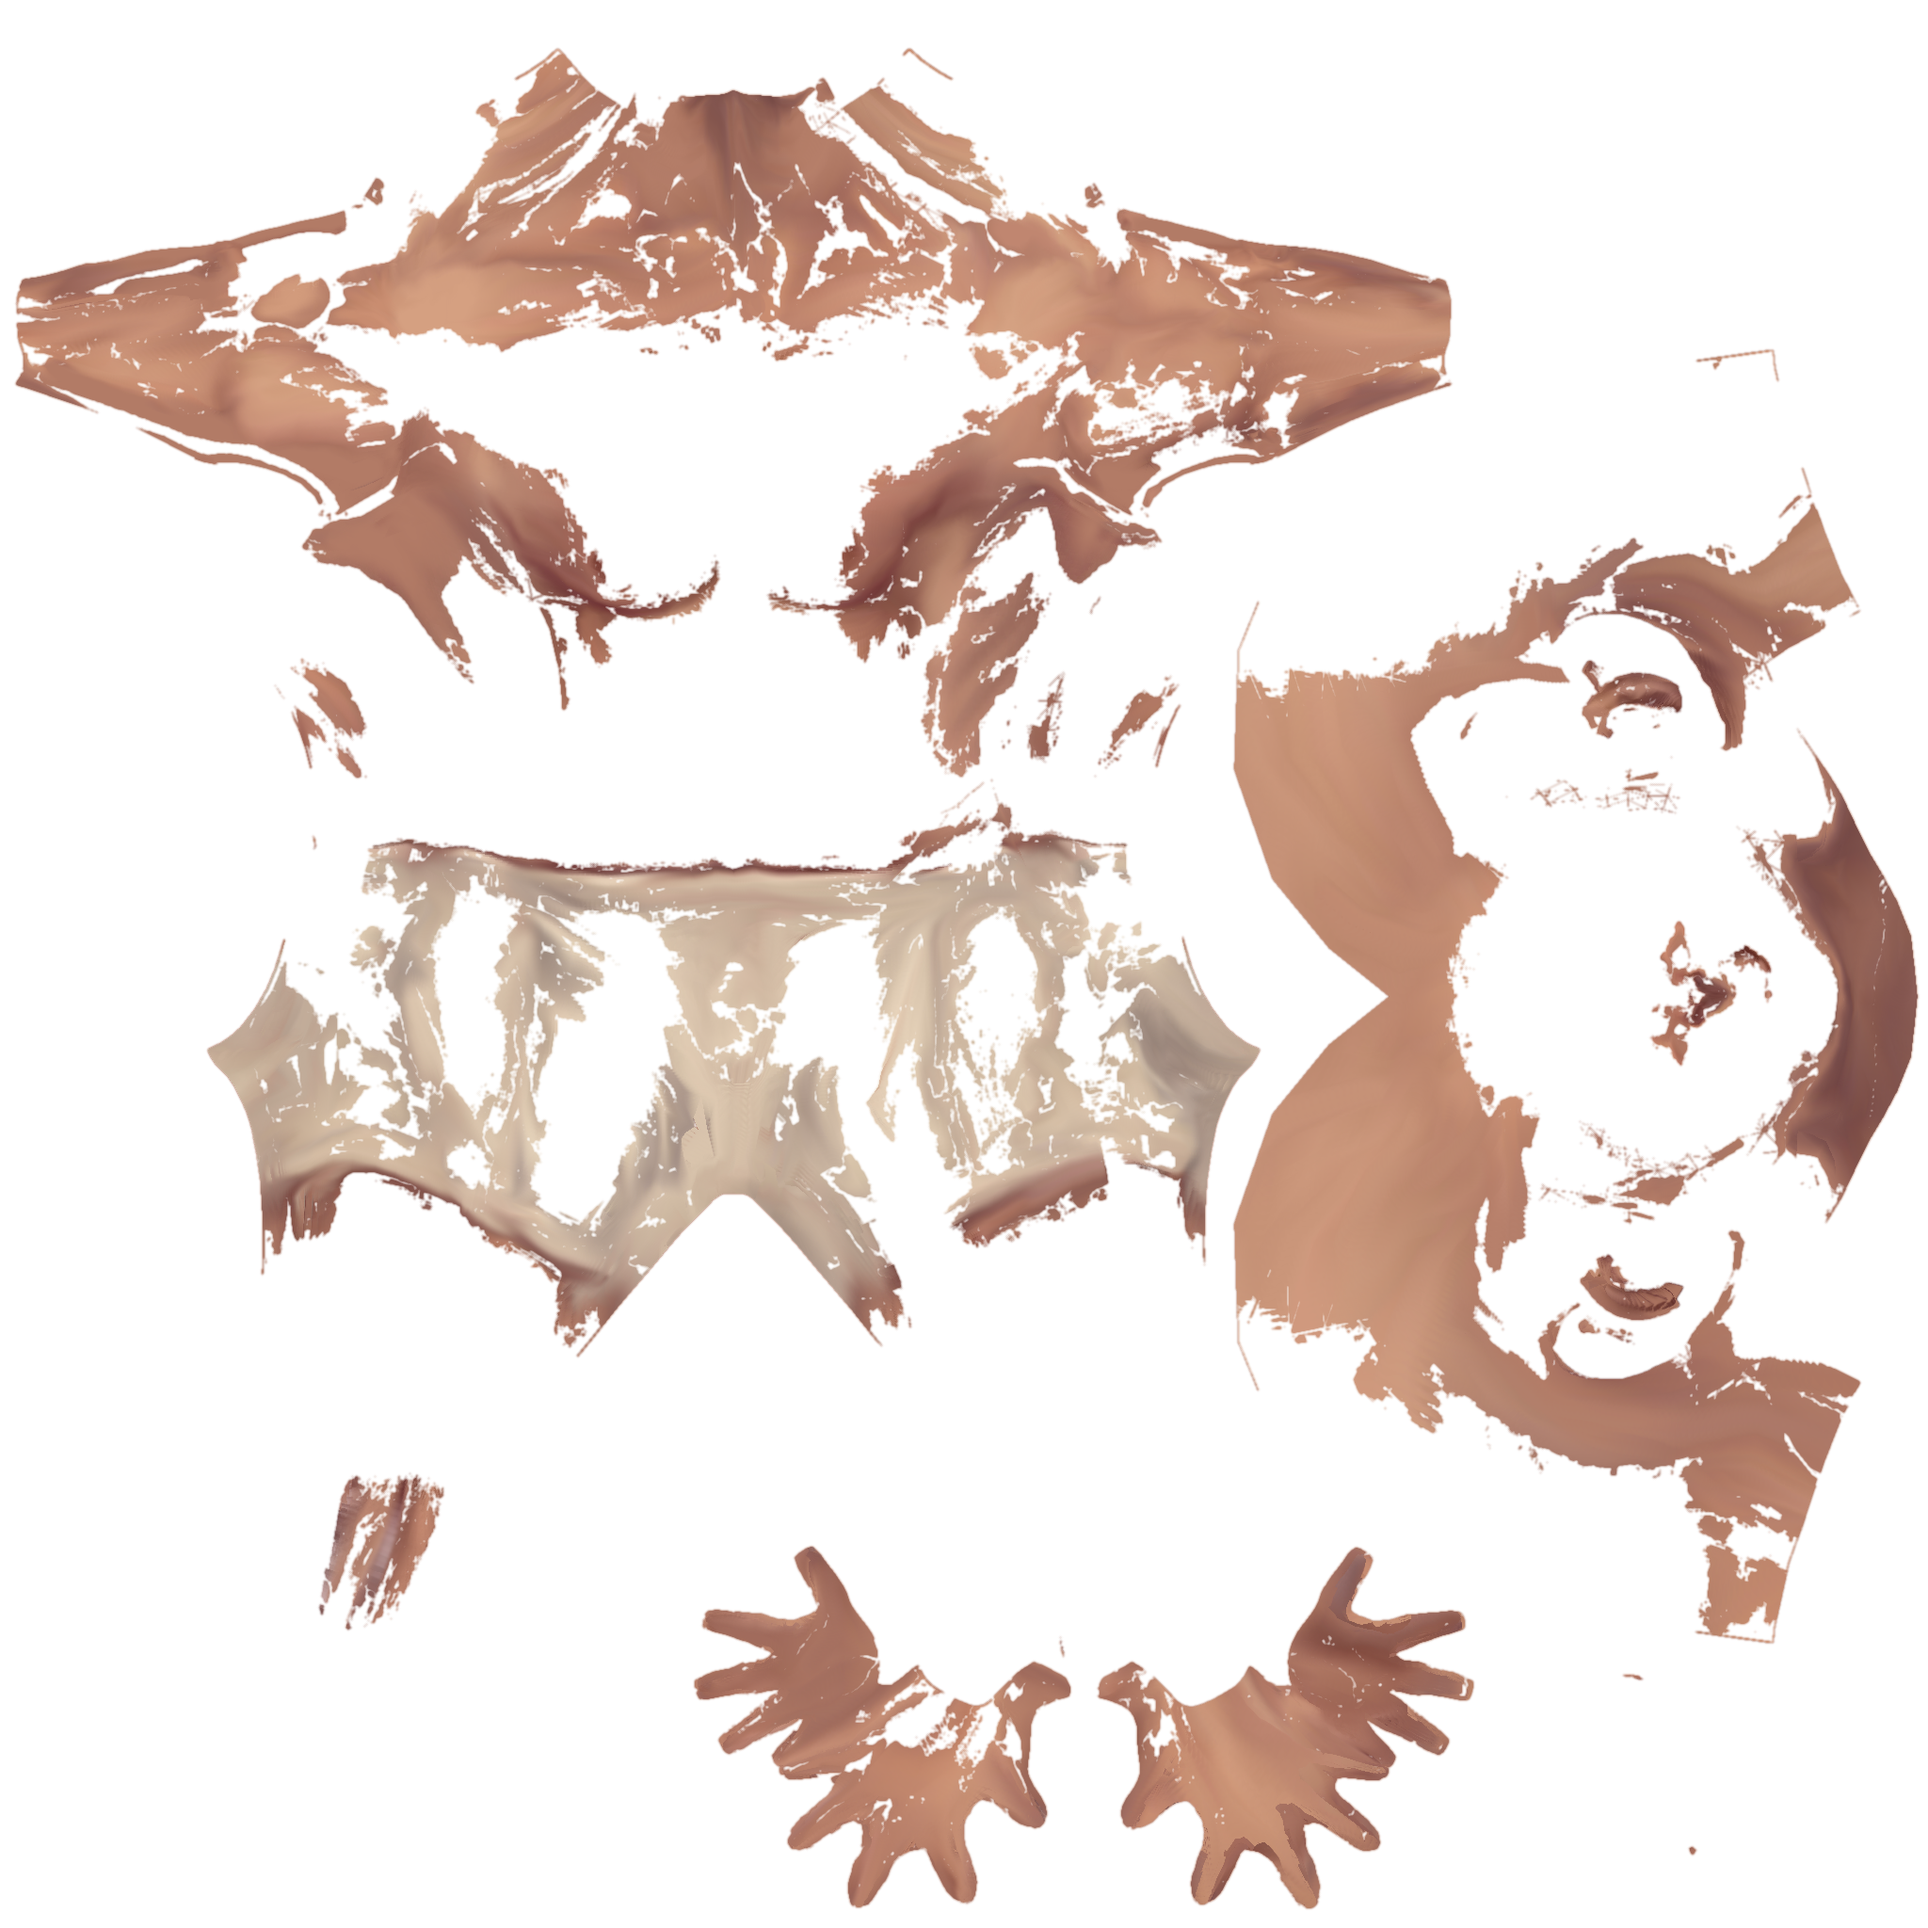
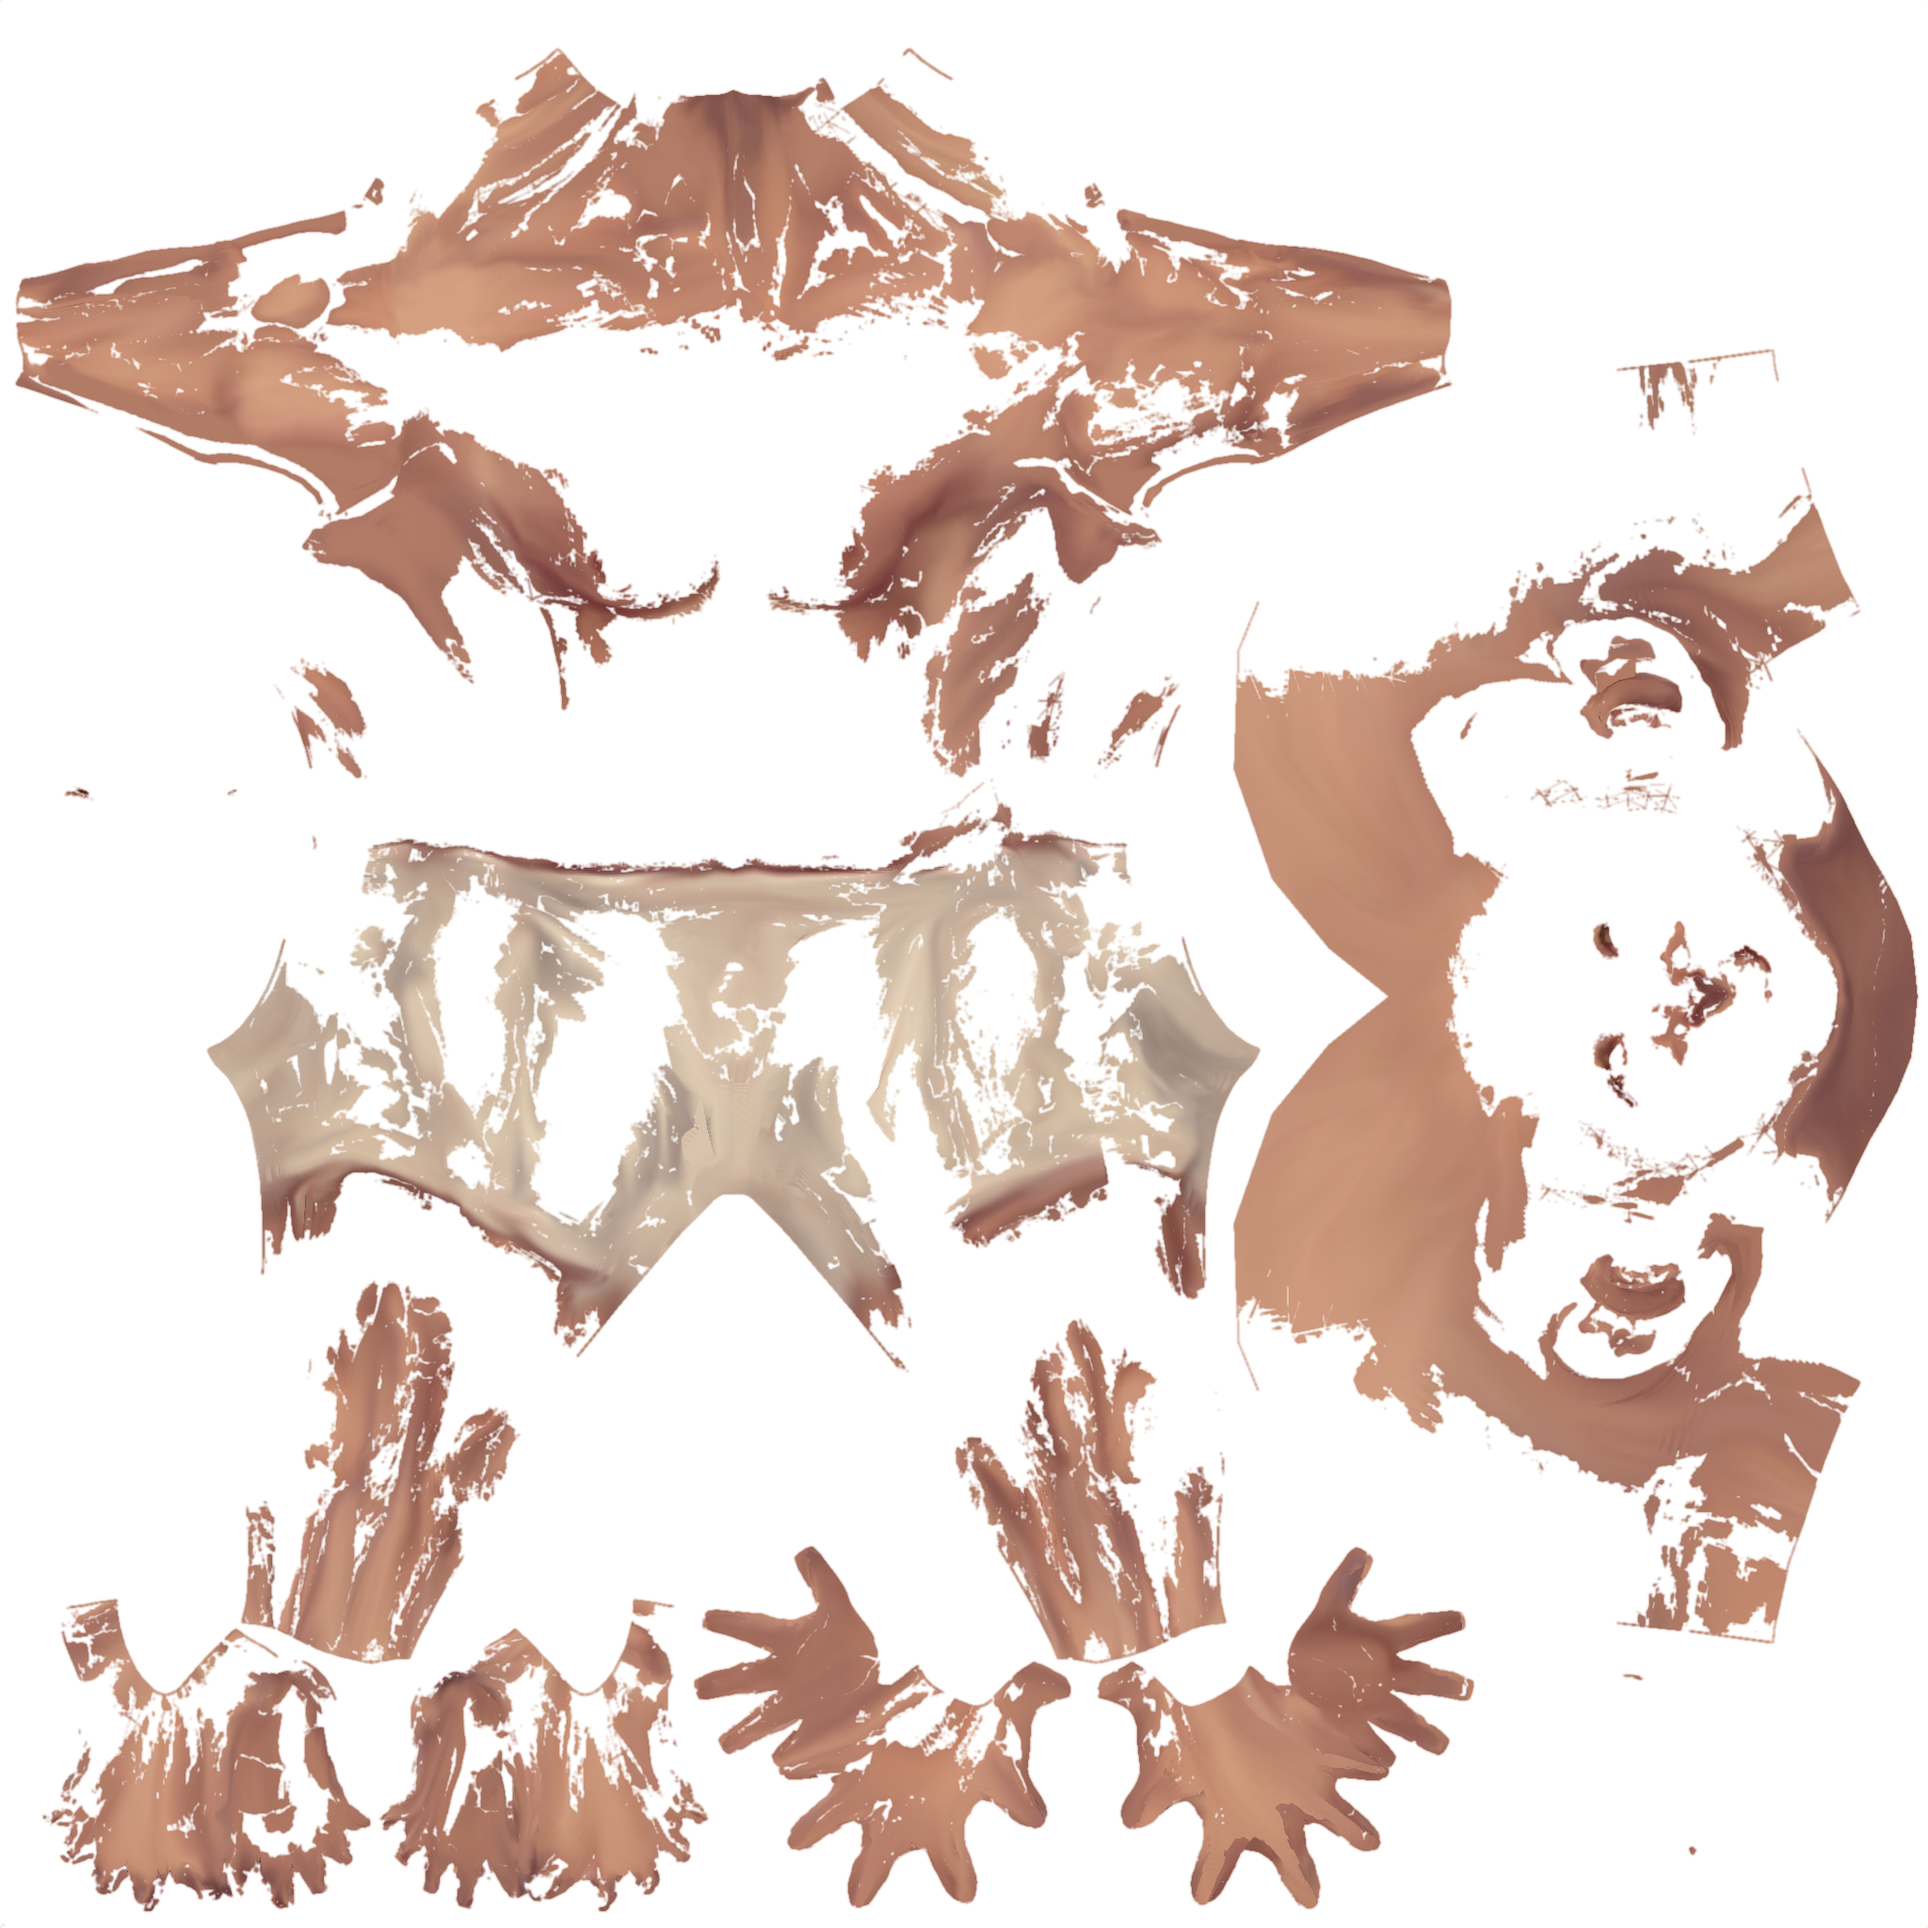
Gulp: figed: the user's third paint save
Claude-Session: https://claude.ai/code/session_018hhQTWAB4pnnkWVR2X6n6A

diff --git a/tools/figed/README.md b/tools/figed/README.md
@@ -701,3 +701,7 @@ up; a ready-made skin tinted; hand painting): "do the texture projection as a fi
 - The user saved again in the same window: the saved file's skin now equals the live window's exactly (the
   `save_pre` pack works: Ctrl+S keeps paint). 15,627 more texels painted and 158 points nudged (up to 2.5 mm);
   the hand layer was made again from this save against the same starting projection, and the sculpt added.
+- Third paint save (the user: "I think the texture and model look pretty good now, might need to add clothes"):
+  246,000 more texels painted (the legs and feet cleaned); the hand layer is now 28% of the picture. No new sculpt.
+  **The user's verdict on the bare figure: pretty good.** Next asked for: clothes. Not started; the drawers are
+  still paint on the skin. Still owed on the head: ears welded, the squint, de-lighting, hair.
